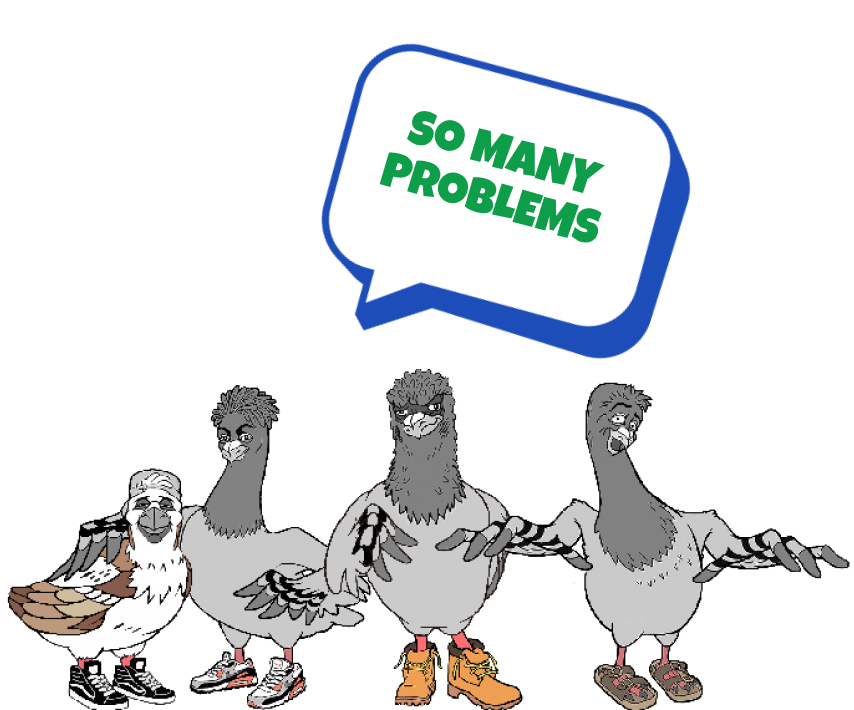
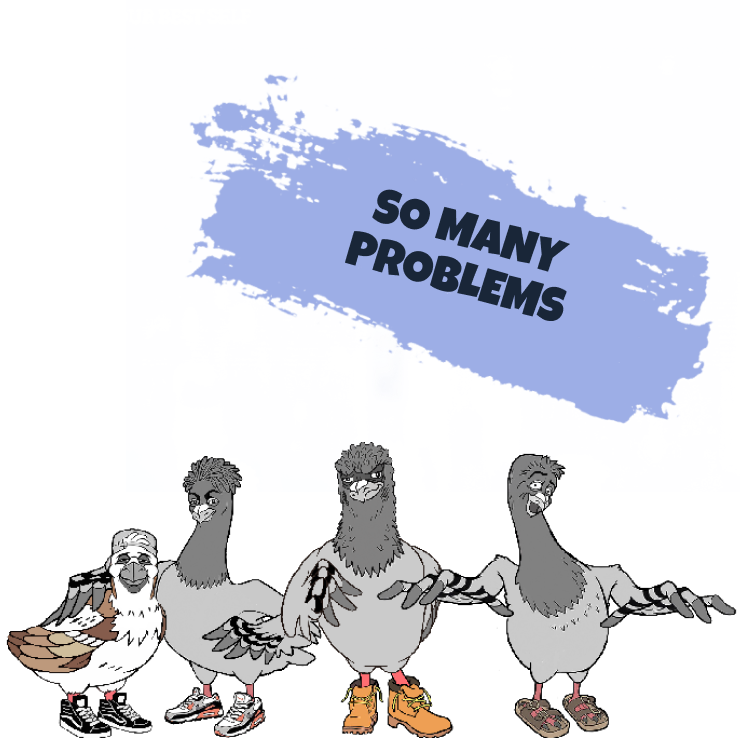
Changes into new abpiut

diff --git a/about.html b/about.html
@@ -4,7 +4,7 @@
     <meta charset="UTF-8" />
     <meta http-equiv="X-UA-Compatible" content="IE=edge" />
     <meta name="viewport" content="width=device-width, initial-scale=1.0" />
-    <link rel="icon" type="image/x-icon" href="./public/assets/images/favicon.png">
+    <link rel="icon" type="image/x-icon" href="./assets/images/favicon.png" />
 
     <title>Squabs</title>
   </head>
@@ -12,87 +12,84 @@
     <!-- About hero -->
     <hero>
       <!-- Navbar -->
-    <navbar class="hidden md:block bg-brand-gray-dark">
-      <div class="container">
-        <ul class="py-4 flex items-center justify-between">
-          <li>
-            <a
-              class="cursor-pointer text-white text-uppercase text-lg font-medium"
-              href="index.html"
-              >Home</a
-            >
-          </li>
-          <li>
-            <a
-              class="cursor-pointer text-white text-uppercase text-lg font-medium"
-              href="index.html"
-              >The Park</a
-            >
-          </li>
-          <li>
-            <div class="bg-black bg-opacity-25 py-2 px-4 rounded-full">
-
-            <a
-              class="cursor-pointer text-white text-uppercase text-lg text-white font-medium"
-              href="./about.html"
-              >About Squabs</a
-            >
-
-            </div>
-          </li>
-          <li>
-            <a
-              class="cursor-pointer text-white text-uppercase text-lg font-medium"
-              href="/ecom.html"
-              >Buy a Merch</a
-            >
-          </li>
-          <li>
+      <navbar class="hidden md:block bg-brand-gray-dark">
+        <div class="container">
+          <ul class="py-4 flex items-center justify-between">
+            <li>
+              <a
+                class="cursor-pointer text-white text-uppercase text-lg font-medium"
+                href="index.html"
+                >Home</a
+              >
+            </li>
+            <li>
+              <a
+                class="cursor-pointer text-white text-uppercase text-lg font-medium"
+                href="index.html"
+                >The Park</a
+              >
+            </li>
+            <li>
+              <div class="bg-black bg-opacity-25 py-2 px-4 rounded-full">
+                <a
+                  class="cursor-pointer text-white text-uppercase text-lg text-white font-medium"
+                  href="./about.html"
+                  >About Squabs</a
+                >
+              </div>
+            </li>
+            <li>
+              <a
+                class="cursor-pointer text-white text-uppercase text-lg font-medium"
+                href="/ecom.html"
+                >Buy a Merch</a
+              >
+            </li>
+            <li>
               <a
                 class="cursor-pointer text-white text-uppercase text-lg font-medium"
                 href="/nft.html"
                 >Buy a Squab</a
               >
-          </li>
-        </ul>
-      </div>
-    </navbar>
-
-    <!-- Mobile Navbar Button -->
-    <div class="block md:hidden absolute right-0">
-      <button class="open-navbar">
-        <img src="./assets/images/icons/hamburger.svg" alt="Open Navbar" />
-      </button>
-    </div>
-
-    <!-- Mobile Navbar -->
-    <section id="mobile-navbar" class="hidden">
-      <div class="z-40 top-0 w-screen h-screen backdrop-blur-sm fixed"></div>
-      <div
-        class="py-12 z-50 top-0 w-screen h-screen bg-brand-gray-dark opacity-80 fixed"
-      >
-        <div class="close-navbar pl-20 mb-10">
-          <img src="./assets/images/icons/cross.svg" alt="Cross" />
-        </div>
-        <nav>
-          <ul class="space-y-7 text-center uppercase text-white">
-            <li>
-              <a class="font-semibold" href="/">Home</a>
-            </li>
-            <li>
-              <a class="font-semibold" href="/nft.html">Buy a Squab</a>
-            </li>
-            <li>
-              <a class="font-semibold" href="/about.html">About</a>
-            </li>
-            <li>
-              <a class="font-semibold" href="/ecom.html">Buy Merch</a>
             </li>
           </ul>
-        </nav>
-      </div>
-    </section>
+        </div>
+      </navbar>
 
+      <!-- Mobile Navbar Button -->
+      <div class="block md:hidden absolute right-0">
+        <button class="open-navbar">
+          <img src="./assets/images/icons/hamburger.svg" alt="Open Navbar" />
+        </button>
+      </div>
+
+      <!-- Mobile Navbar -->
+      <section id="mobile-navbar" class="hidden">
+        <div class="z-40 top-0 w-screen h-screen backdrop-blur-sm fixed"></div>
+        <div
+          class="py-12 z-50 top-0 w-screen h-screen bg-brand-gray-dark opacity-80 fixed"
+        >
+          <div class="close-navbar pl-20 mb-10">
+            <img src="./assets/images/icons/cross.svg" alt="Cross" />
+          </div>
+          <nav>
+            <ul class="space-y-7 text-center uppercase text-white">
+              <li>
+                <a class="font-semibold" href="/">Home</a>
+              </li>
+              <li>
+                <a class="font-semibold" href="/nft.html">Buy a Squab</a>
+              </li>
+              <li>
+                <a class="font-semibold" href="/about.html">About</a>
+              </li>
+              <li>
+                <a class="font-semibold" href="/ecom.html">Buy Merch</a>
+              </li>
+            </ul>
+          </nav>
+        </div>
+      </section>
 
       <!-- Hero content -->
       <div class="flex justify-center items-center">
@@ -129,16 +126,12 @@
             />
           </div>
           <div class="md:w-1/2">
-            <div class="mt-12">
-              <div class="relative flex flex-col space-y-16">
-                <div
-                  class="problems-about-connector absolute w-1 h-full bg-white"
-                ></div>
-
-                <div class="flex items-center space-x-11">
+            <div class="mt-12 pt-12 about-problems-content">
+              <div class="relative flex flex-col space-y-10">
+                <div class="flex items-center space-x-4">
                   <div>
                     <div
-                      class="w-10 h-10 rounded-full flex text-text-black justify-center items-center bg-[#B7BFFC]"
+                      class="w-14 h-14 rounded-full flex text-text-black justify-center items-center number"
                     >
                       1
                     </div>
@@ -151,10 +144,10 @@
                   </div>
                 </div>
 
-                <div class="flex items-center space-x-11">
+                <div class="flex items-center space-x-4">
                   <div>
                     <div
-                      class="w-10 h-10 rounded-full flex text-text-black justify-center items-center bg-[#CCF5E1]"
+                      class="w-14 h-14 rounded-full flex text-text-black justify-center items-center number"
                     >
                       2
                     </div>
@@ -167,10 +160,10 @@
                   </div>
                 </div>
 
-                <div class="flex items-center space-x-11">
+                <div class="flex items-center space-x-4">
                   <div>
                     <div
-                      class="w-10 h-10 rounded-full flex text-text-black justify-center items-center bg-[#FFF3D0]"
+                      class="w-14 h-14 rounded-full flex text-text-black justify-center items-center number"
                     >
                       3
                     </div>
@@ -201,24 +194,21 @@
     <section class="solutions py-24">
       <div class="container text-white">
         <div class="md:flex items-center space-x-4">
-          <div class="md:w-1/2">
+          <div class="md:w-1/3">
             <img
               class="hero-background"
               src="./assets/images/about-solutions.png"
               alt="Problems"
             />
           </div>
-          <div class="md:w-1/2">
-            <div class="mt-12">
-              <div class="relative flex flex-col space-y-16">
-                <div
-                  class="solutions-about-connector absolute w-1 h-full bg-white"
-                ></div>
+          <div class="md:w-2/3">
+            <div class="mt-12 pt-20 about-solutions-bg">
+              <div class="relative flex flex-col space-y-10">
 
-                <div class="flex items-center space-x-11">
+                <div class="flex items-center space-x-4">
                   <div>
                     <div
-                      class="w-10 h-10 rounded-full flex text-text-black justify-center items-center bg-[#B7BFFC]"
+                      class="w-14 h-14 rounded-full flex text-text-black justify-center items-center number"
                     >
                       1
                     </div>
@@ -233,10 +223,10 @@
                   </div>
                 </div>
 
-                <div class="flex items-center space-x-11">
+                <div class="flex items-center space-x-4">
                   <div>
                     <div
-                      class="w-10 h-10 rounded-full flex text-text-black justify-center items-center bg-[#CCF5E1]"
+                      class="w-14 h-14 rounded-full flex text-text-black justify-center items-center number"
                     >
                       2
                     </div>
@@ -251,10 +241,10 @@
                   </div>
                 </div>
 
-                <div class="flex items-center space-x-11">
+                <div class="flex items-center space-x-4">
                   <div>
                     <div
-                      class="w-10 h-10 rounded-full flex text-text-black justify-center items-center bg-[#FFF3D0]"
+                      class="w-14 h-14 rounded-full flex text-text-black justify-center items-center number"
                     >
                       3
                     </div>
@@ -306,9 +296,7 @@
                 <div class="mt-4">
                   <h2 class="text-4xl">Izek</h2>
                   <div class="mt-4 text-xl">
-                    <p>
-                      Carefree and his lighthearted commentry eases tension
-                    </p>
+                    <p>Carefree and his lighthearted commentry eases tension</p>
                   </div>
                 </div>
               </div>
@@ -319,15 +307,35 @@
                   <div class="squabs-background w-full h-[330px]"></div>
                   <img
                     class="absolute bottom-[-16px]"
-                    src="./assets/images/fyle.png"
-                    alt="Fyle"
+                    src="./assets/images/byrd.png"
+                    alt="Byrd"
                   />
                 </div>
                 <div class="mt-4">
-                  <h2 class="text-4xl">Izek</h2>
+                  <h2 class="text-4xl">Byrd</h2>
+                  <div class="mt-4 text-xl">
+                    <p>Tough guy, provides strength and encouragement</p>
+                  </div>
+                </div>
+              </div>
+            </li>
+
+            <li class="splide__splide">
+              <div>
+                <div class="squab-detail relative">
+                  <div class="squabs-background w-full h-[330px]"></div>
+                  <img
+                    class="absolute bottom-[-16px]"
+                    src="./assets/images/splat.png"
+                    alt="Splat"
+                  />
+                </div>
+                <div class="mt-4">
+                  <h2 class="text-4xl">Splat</h2>
                   <div class="mt-4 text-xl">
                     <p>
-                      Carefree and his lighthearted commentry eases tension
+                      Socially awkward, and his artsy insight is a source of
+                      comic relief.
                     </p>
                   </div>
                 </div>
@@ -340,16 +348,14 @@
                   <div class="squabs-background w-full h-[330px]"></div>
                   <img
                     class="absolute bottom-[-16px]"
-                    src="./assets/images/fyle.png"
-                    alt="Fyle"
+                    src="./assets/images/pistachio.png"
+                    alt="Pistachio"
                   />
                 </div>
                 <div class="mt-4">
-                  <h2 class="text-4xl">Izek</h2>
+                  <h2 class="text-4xl">Pistachio</h2>
                   <div class="mt-4 text-xl">
-                    <p>
-                      Carefree and his lighthearted commentry eases tension
-                    </p>
+                    <p>Carefree and his lighthearted commentry eases tension</p>
                   </div>
                 </div>
               </div>
@@ -587,7 +593,8 @@
 
         new Splide("#squabs-slider", {
           type: "loop",
-          perPage: 1,
+          drag: "free",
+          perPage: 3,
           breakpoints: {
             640: {
               perPage: 1,

diff --git a/sass/pages/_about.scss b/sass/pages/_about.scss
@@ -72,3 +72,24 @@
 .goal {
   background-image: url("../assets/images/about-goal-bg.png");
 }
+
+.about-problems-content {
+  background-image: url("../assets/images/problems-bg.png");
+  background-repeat: no-repeat;
+  padding-bottom: 270px;
+  padding-top: 54px;
+  padding-right: 24px;
+}
+
+.number {
+  background-image: url("../assets/images/num-bg.png");
+  background-position: center;
+  background-repeat: no-repeat;
+}
+
+.about-solutions-bg {
+  background-image: url("../assets/images/solutions-textbg.png");
+  background-repeat: no-repeat;
+  padding-bottom: 370px;
+  padding-right: 127px;
+}

diff --git a/sass/vendors/_splide.scss b/sass/vendors/_splide.scss
@@ -2,4 +2,4 @@
 
 .splide__track{
     overflow-y: visible !important;
-}
+} 
